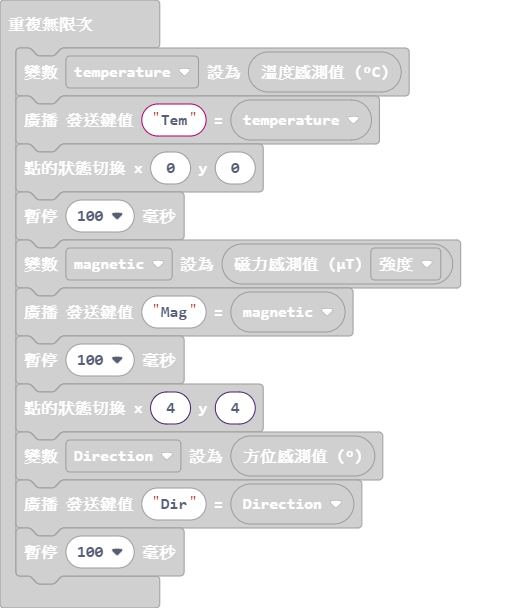
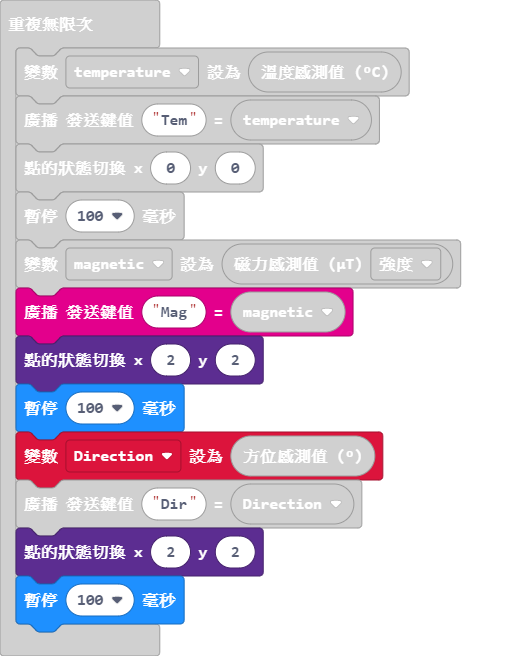
Update main.blocks, main.ts

diff --git a/main.ts b/main.ts
@@ -11,9 +11,10 @@ basic.forever(function () {
     basic.pause(100)
     magnetic = input.magneticForce(Dimension.Strength)
     radio.sendValue("Mag", magnetic)
+    led.toggle(2, 2)
     basic.pause(100)
-    led.toggle(4, 4)
     Direction2 = input.compassHeading()
     radio.sendValue("Dir", Direction2)
+    led.toggle(2, 2)
     basic.pause(100)
 })
